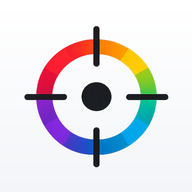
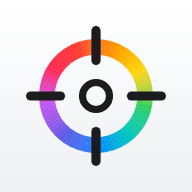
brand: new WhatColor mark with a hollow sample circle
The rebuilt app reads exactly what sits inside the reticle's center
circle, so the logo now shows that circle instead of the old solid dot.

- One geometry source (src/brand/mark.js) drives the React logo, the
  camera reticle, and every static icon (scripts/build-brand.mjs)
- Hero lockup is inline SVG + text now (the old PNG was 2.1 MB)
- Favicons, apple-touch and PWA icons, logo PNGs, share card v3
- Cache-busted icon URLs and service worker cache wc-v3 so installed
  apps and returning visitors pick up the new icons

diff --git a/src/brand/mark.js b/src/brand/mark.js
@@ -1,0 +1,72 @@
+// The WhatColor mark, defined once and used everywhere: the React logo, the
+// camera reticle, and the favicon / app-icon files (scripts/build-brand.mjs).
+//
+// A full-spectrum ring, four crosshair ticks, and a hollow center: the circle
+// in the middle is the spot the app reads, so the logo shows how it works.
+// No imports on purpose, so Node can load this file directly.
+
+export const INK = '#1C1C1E'
+
+// Brand spectrum, clockwise from about 11 o'clock (matches the original mark).
+const STOPS = ['#FF3B30', '#FF9500', '#FFD60A', '#30D158', '#00C7BE', '#0A84FF', '#5E5CE6', '#BF5AF2', '#FF2D55', '#FF3B30']
+const START_DEG = -110
+const SEGMENTS = 96
+
+const hex = (h) => [1, 3, 5].map((i) => parseInt(h.slice(i, i + 2), 16))
+const toLin = (c) => { c /= 255; return c <= 0.04045 ? c / 12.92 : ((c + 0.055) / 1.055) ** 2.4 }
+const toSrgb = (v) => Math.round(Math.min(1, Math.max(0, v <= 0.0031308 ? 12.92 * v : 1.055 * v ** (1 / 2.4) - 0.055)) * 255)
+const toHex = (rgb) => '#' + rgb.map((v) => v.toString(16).padStart(2, '0')).join('')
+
+// Blend in linear light so the ring doesn't get muddy between stops.
+function mix(a, b, t) {
+  const A = hex(a).map(toLin), B = hex(b).map(toLin)
+  return toHex(A.map((v, i) => toSrgb(v + (B[i] - v) * t)))
+}
+
+function colorAt(f) {
+  const x = f * (STOPS.length - 1)
+  const i = Math.min(STOPS.length - 2, Math.floor(x))
+  return mix(STOPS[i], STOPS[i + 1], x - i)
+}
+
+const r2 = (n) => Math.round(n * 1000) / 1000
+
+function arc(cx, cy, r0, r1, a0, a1) {
+  const p = (r, a) => [r2(cx + r * Math.cos(a)), r2(cy + r * Math.sin(a))]
+  const [x0, y0] = p(r1, a0), [x1, y1] = p(r1, a1)
+  const [x2, y2] = p(r0, a1), [x3, y3] = p(r0, a0)
+  return `M${x0} ${y0}A${r1} ${r1} 0 0 1 ${x1} ${y1}L${x2} ${y2}A${r0} ${r0} 0 0 0 ${x3} ${y3}Z`
+}
+
+/** Ring segments on a 100x100 canvas. */
+export function ringSegments({ outer = 40, inner = 29, cx = 50, cy = 50 } = {}) {
+  const out = []
+  for (let i = 0; i < SEGMENTS; i++) {
+    const a0 = ((START_DEG + (i * 360) / SEGMENTS) * Math.PI) / 180
+    const a1 = a0 + (2 * Math.PI) / SEGMENTS + 0.006 // hairline overlap, no seams
+    out.push({ d: arc(cx, cy, inner, outer, a0, a1), fill: colorAt((i + 0.5) / SEGMENTS) })
+  }
+  return out
+}
+
+// Ticks cross the ring like the original crosshair.
+export const TICKS = [
+  [50, 4, 50, 25],
+  [50, 75, 50, 96],
+  [4, 50, 25, 50],
+  [75, 50, 96, 50],
+]
+export const TICK_WIDTH = 6.5
+export const CENTER = { r: 9.5, stroke: 5 }
+
+/** Standalone SVG markup for the mark (used to generate the static files). */
+export function markSvg({ size = 100, background = null, radius = 22, scale = 1, ink = INK } = {}) {
+  const inset = (100 - 100 * scale) / 2
+  const g = `<g transform="translate(${r2(inset)} ${r2(inset)}) scale(${scale})">` +
+    ringSegments().map((s) => `<path d="${s.d}" fill="${s.fill}"/>`).join('') +
+    TICKS.map(([x1, y1, x2, y2]) => `<line x1="${x1}" y1="${y1}" x2="${x2}" y2="${y2}" stroke="${ink}" stroke-width="${TICK_WIDTH}" stroke-linecap="round"/>`).join('') +
+    `<circle cx="50" cy="50" r="${CENTER.r}" fill="none" stroke="${ink}" stroke-width="${CENTER.stroke}"/>` +
+    '</g>'
+  const bg = background ? `<rect width="100" height="100" rx="${radius}" fill="${background}"/>` : ''
+  return `<svg xmlns="http://www.w3.org/2000/svg" viewBox="0 0 100 100" width="${size}" height="${size}">${bg}${g}</svg>`
+}

diff --git a/index.html b/index.html
@@ -2,9 +2,9 @@
 <html lang="en">
   <head>
     <meta charset="UTF-8" />
-    <link rel="icon" type="image/svg+xml" href="/favicon.svg?v=2" />
-    <link rel="icon" type="image/png" sizes="32x32" href="/favicon-32.png?v=2" />
-    <link rel="icon" type="image/png" sizes="16x16" href="/favicon-16.png?v=2" />
+    <link rel="icon" type="image/svg+xml" href="/favicon.svg?v=3" />
+    <link rel="icon" type="image/png" sizes="32x32" href="/favicon-32.png?v=3" />
+    <link rel="icon" type="image/png" sizes="16x16" href="/favicon-16.png?v=3" />
     <meta name="viewport" content="width=device-width, initial-scale=1.0" />
     <meta name="description" content="Point your camera and WhatColor names any color the way a friend would: navy, olive, dusty rose. Free, private, and built by a colorblind developer." />
     <meta name="theme-color" content="#ffffff" />
@@ -12,7 +12,7 @@
 
     <!-- PWA: installable / add to home screen -->
     <link rel="manifest" href="/manifest.webmanifest" />
-    <link rel="apple-touch-icon" href="/apple-touch-icon.png?v=3" />
+    <link rel="apple-touch-icon" href="/apple-touch-icon.png?v=4" />
     <meta name="apple-mobile-web-app-capable" content="yes" />
     <meta name="apple-mobile-web-app-status-bar-style" content="default" />
     <meta name="apple-mobile-web-app-title" content="WhatColor" />
@@ -27,7 +27,7 @@
     <meta property="og:url" content="https://what-color.com/" />
     <meta property="og:title" content="WhatColor: identify any color in words you actually use" />
     <meta property="og:description" content="Point your camera and WhatColor names any color the way a friend would: navy, olive, dusty rose. Free, private, and built by a colorblind developer." />
-    <meta property="og:image" content="https://what-color.com/og-card-v2.png" />
+    <meta property="og:image" content="https://what-color.com/og-card-v3.png" />
     <meta property="og:image:width" content="1200" />
     <meta property="og:image:height" content="630" />
     <meta property="og:image:alt" content="WhatColor names everyday colors: Maroon, Navy, Army Green, Dusty Rose, Mustard, Teal." />
@@ -36,7 +36,7 @@
     <meta name="twitter:card" content="summary_large_image" />
     <meta name="twitter:title" content="WhatColor: identify any color in words you actually use" />
     <meta name="twitter:description" content="Point your camera and WhatColor names any color the way a friend would: navy, olive, dusty rose. Free, private, and built by a colorblind developer." />
-    <meta name="twitter:image" content="https://what-color.com/og-card-v2.jpg" />
+    <meta name="twitter:image" content="https://what-color.com/og-card-v3.jpg" />
     <meta name="twitter:image:alt" content="WhatColor names everyday colors: Maroon, Navy, Army Green, Dusty Rose, Mustard, Teal." />
   </head>
   <body>

diff --git a/src/components/landing/Features.jsx b/src/components/landing/Features.jsx
@@ -2,6 +2,7 @@ import { useInView } from '../../hooks/useInView'
 import { UploadIcon, CompareIcon, EyeIcon, LockIcon, HistoryIcon, DownloadIcon, SunIcon, SpeakerIcon } from '../ui/Icons'
 import { simulateRgb, CVD_SHORT } from '../../engine/cvd'
 import { toHex } from '../../engine/colorMath'
+import { WhatColorMark } from '../brand/Logo'
 
 // One maroon, as four kinds of eyes see it (computed, not hand-picked).
 const MAROON = { r: 110, g: 26, b: 42 }
@@ -50,16 +51,7 @@ export default function Features() {
         <Tile inView={inView} delay={0} className="col-span-2 md:row-span-2 border border-white/10 overflow-hidden relative flex flex-col justify-end p-6 min-h-[300px] md:min-h-0">
           <div className="absolute inset-0" style={{ background: 'radial-gradient(120% 80% at 50% 18%, #f0a35f 0%, #d8552f 38%, #4a1f12 82%, #1a0c07 100%)' }} />
           <div className="absolute inset-x-0 top-0 h-1/2 flex items-center justify-center">
-            <svg viewBox="0 0 100 100" className="w-20 h-20 drop-shadow-[0_2px_10px_rgba(0,0,0,0.5)]" aria-hidden="true">
-              <circle cx="50" cy="50" r="41" fill="none" stroke="url(#ft-ring)" strokeWidth="10" />
-              <defs>
-                <linearGradient id="ft-ring" x1="0" y1="0" x2="1" y2="1">
-                  <stop offset="0" stopColor="#FF3B30" /><stop offset="0.35" stopColor="#FFD60A" />
-                  <stop offset="0.65" stopColor="#30D158" /><stop offset="1" stopColor="#BF5AF2" />
-                </linearGradient>
-              </defs>
-              <circle cx="50" cy="50" r="12" fill="none" stroke="#fff" strokeWidth="2" />
-            </svg>
+            <WhatColorMark size={84} ink="#fff" className="drop-shadow-[0_2px_10px_rgba(0,0,0,0.5)]" />
           </div>
           <div className="relative">
             <span className="inline-flex items-center gap-1.5 px-2.5 py-1 rounded-full bg-white/15 backdrop-blur text-white text-[10px] font-semibold mb-3">
@@ -132,7 +124,7 @@ export default function Features() {
 
         {/* Install */}
         <Tile inView={inView} delay={480} className="col-span-2 glass-light p-5 flex items-center gap-4 group">
-          <img src="/icon-192.png" alt="" className="w-12 h-12 rounded-2xl border border-black/5 shrink-0 transition-transform duration-300 group-hover:scale-105" draggable={false} />
+          <img src="/icon-192.png?v=2" alt="" className="w-12 h-12 rounded-2xl border border-black/5 shrink-0 transition-transform duration-300 group-hover:scale-105" draggable={false} />
           <div>
             <h3 className="text-sm font-bold text-gray-900">Install it like an app</h3>
             <p className="text-xs text-gray-500 font-light mt-0.5 leading-relaxed">Add WhatColor to your home screen. It opens instantly, even with no signal.</p>

diff --git a/src/components/brand/Logo.jsx b/src/components/brand/Logo.jsx
@@ -1,0 +1,61 @@
+import { useMemo } from 'react'
+import { ringSegments, TICKS, TICK_WIDTH, CENTER, INK } from '../../brand/mark'
+
+/** The WhatColor mark as inline SVG: crisp at any size, no image request. */
+export function WhatColorMark({ size = 48, ink = INK, className = '', title }) {
+  const ring = useMemo(() => ringSegments(), [])
+  // Numbers are pixels; strings (e.g. "3em") go through CSS so it can scale.
+  const dims = typeof size === 'number' ? { width: size, height: size } : { style: { width: size, height: size } }
+  return (
+    <svg
+      viewBox="0 0 100 100"
+      {...dims}
+      className={className}
+      role={title ? 'img' : undefined}
+      aria-label={title}
+      aria-hidden={title ? undefined : true}
+    >
+      {ring.map((s, i) => <path key={i} d={s.d} fill={s.fill} />)}
+      {TICKS.map(([x1, y1, x2, y2]) => (
+        <line key={`${x1}-${y1}`} x1={x1} y1={y1} x2={x2} y2={y2} stroke={ink} strokeWidth={TICK_WIDTH} strokeLinecap="round" />
+      ))}
+      <circle cx="50" cy="50" r={CENTER.r} fill="none" stroke={ink} strokeWidth={CENTER.stroke} />
+    </svg>
+  )
+}
+
+/** "WhatColor" with the spectrum across "Color". */
+export function WhatColorWordmark({ className = '', dark = false }) {
+  return (
+    <span className={`font-semibold tracking-tight ${dark ? 'text-white' : 'text-[#1c1c1e]'} ${className}`}>
+      What
+      <span
+        className="bg-clip-text text-transparent"
+        style={{ backgroundImage: 'linear-gradient(90deg, #FF3B30, #FF9500 22%, #FFD60A 38%, #30D158 55%, #0A84FF 75%, #BF5AF2)' }}
+      >
+        Color
+      </span>
+    </span>
+  )
+}
+
+/**
+ * Mark + wordmark + tagline, stacked. Everything is sized in em, so one
+ * font-size on the wrapper scales the whole lockup.
+ */
+export function WhatColorLockup({ className = '', style }) {
+  return (
+    <div
+      className={`flex flex-col items-center select-none leading-none ${className}`}
+      style={style}
+      role="img"
+      aria-label="WhatColor. See more. Know more."
+    >
+      <WhatColorMark size="2.9em" />
+      <WhatColorWordmark className="mt-[0.28em]" />
+      <span className="mt-[0.42em] text-[0.2em] font-medium tracking-[0.42em] text-[#6b6b70] pl-[0.42em] whitespace-nowrap">
+        SEE MORE. KNOW MORE.
+      </span>
+    </div>
+  )
+}

diff --git a/src/components/app/Reticle.jsx b/src/components/app/Reticle.jsx
@@ -1,28 +1,11 @@
 import { forwardRef, useMemo } from 'react'
+import { ringSegments } from '../../brand/mark'
 
-// The WhatColor reticle: the brand's rainbow ring, with a hollow center whose
-// circle is exactly the area being sampled. The old PNG had a solid dot right
-// over the spot it was measuring.
-const SEGMENTS = 36
-
-function arc(cx, cy, r0, r1, a0, a1) {
-  const p = (r, a) => [cx + r * Math.cos(a), cy + r * Math.sin(a)]
-  const [x0, y0] = p(r1, a0), [x1, y1] = p(r1, a1)
-  const [x2, y2] = p(r0, a1), [x3, y3] = p(r0, a0)
-  return `M${x0} ${y0}A${r1} ${r1} 0 0 1 ${x1} ${y1}L${x2} ${y2}A${r0} ${r0} 0 0 0 ${x3} ${y3}Z`
-}
+// The WhatColor reticle: the logo's spectrum ring with a hollow center whose
+// circle is exactly the area being sampled (the logo's center ring, live).
 
 const Reticle = forwardRef(function Reticle({ size = 92, spot = 36, color = null, pulseKey = 0, breathe = false, ringOpacity = 1 }, ref) {
-  const ring = useMemo(() => {
-    const out = []
-    for (let i = 0; i < SEGMENTS; i++) {
-      // Start at the top and go clockwise, red → orange → ... → magenta.
-      const a0 = -Math.PI / 2 + (i / SEGMENTS) * Math.PI * 2
-      const a1 = a0 + (Math.PI * 2) / SEGMENTS + 0.012
-      out.push({ d: arc(50, 50, 36, 46, a0, a1), fill: `hsl(${(i * 360) / SEGMENTS}, 92%, 56%)` })
-    }
-    return out
-  }, [])
+  const ring = useMemo(() => ringSegments({ outer: 46, inner: 36 }), [])
 
   // Keep the sample circle comfortably inside the ring.
   const outer = Math.max(size, spot * 1.9)

diff --git a/src/components/app/ImageUploadView.jsx b/src/components/app/ImageUploadView.jsx
@@ -5,6 +5,7 @@ import { identify } from '../../engine/identify'
 import { createSampler, SPOT_SIZES } from '../../engine/sampler'
 import ColorInfoPanel from './ColorInfoPanel'
 import Reticle from './Reticle'
+import { WhatColorMark, WhatColorWordmark } from '../brand/Logo'
 import { ImageIcon, RefreshIcon, CameraIcon, ArrowLeftIcon, ChevronDownIcon } from '../ui/Icons'
 
 // Photos are sampled a bit tighter than the live camera: no sensor noise to
@@ -145,7 +146,10 @@ export default function ImageUploadView({ onSave, onBack, onColorChange }) {
       )}
 
       <div className="absolute top-0 left-0 right-0 flex items-center justify-between px-4 py-3 bg-gradient-to-b from-black/60 via-black/20 to-transparent">
-        <span className="font-bold text-white text-sm tracking-tight"><span className="font-normal">What</span>Color</span>
+        <span className="flex items-center gap-2 text-[15px]">
+          <WhatColorMark size={22} ink="#fff" />
+          <WhatColorWordmark dark />
+        </span>
         <div className="flex items-center gap-2">
           <button
             onClick={() => { setImageSrc(null); setRaw(null); setAim(null) }}

diff --git a/src/components/landing/LandingPage.jsx b/src/components/landing/LandingPage.jsx
@@ -9,6 +9,7 @@ import FinalCTA from './FinalCTA'
 import LandingNav from './LandingNav'
 import InstallPrompt from './InstallPrompt'
 import { SOCIALS } from '../../socials'
+import { WhatColorMark } from '../brand/Logo'
 
 // Soft, vibrant color washes that slowly drift behind the page. Blur and opacity
 // are static (only the transform animates), so they always render as a soft
@@ -80,7 +81,7 @@ export default function LandingPage() {
         <footer className="border-t border-gray-100 px-6 py-10 bg-white/80 backdrop-blur-sm">
           <div className="max-w-5xl mx-auto flex flex-col md:flex-row items-center justify-between gap-5">
             <div className="flex items-center gap-3">
-              <img src="/logo-symbol-transparent.png" alt="" className="h-7 w-7 object-contain" />
+              <WhatColorMark size={28} />
               <span className="text-sm font-semibold text-gray-900">WhatColor</span>
               <span className="text-sm text-gray-400 font-light">See more. Know more.</span>
             </div>

diff --git a/src/components/landing/Hero.jsx b/src/components/landing/Hero.jsx
@@ -2,6 +2,7 @@ import { useRef, useState, useEffect, useCallback } from 'react'
 import { Link } from 'react-router-dom'
 import { CameraIcon, UploadIcon } from '../ui/Icons'
 import ColorCyclePill from './ColorCyclePill'
+import { WhatColorLockup } from '../brand/Logo'
 
 const LINE1_WORDS = ['Identify', 'any']
 const COLOR_WORD  = 'color'
@@ -93,13 +94,7 @@ export default function Hero() {
             opacity: 0.35,
           }}
         />
-        <img
-          src="/logo-lockup-transparent.png"
-          srcSet="/logo-lockup-transparent.png 1x, /logo-lockup-transparent@2x.png 2x"
-          alt="WhatColor. See more. Know more."
-          className="relative w-[46rem] md:w-[42rem] h-auto select-none"
-          draggable={false}
-        />
+        <WhatColorLockup className="relative" style={{ fontSize: 'clamp(52px, 6.4vw, 92px)' }} />
       </div>
 
       {/* Headline: scroll-in wave via h1 key, per-letter hover/swipe via WaveLetter */}

diff --git a/src/components/landing/InstallPrompt.jsx b/src/components/landing/InstallPrompt.jsx
@@ -64,7 +64,7 @@ export default function InstallPrompt() {
     <div className="fixed inset-x-0 bottom-0 z-50 flex justify-center px-3 pb-3 pointer-events-none">
       <div className="pointer-events-auto w-full max-w-md flex items-center gap-3 px-4 py-3 rounded-2xl bg-white/90 backdrop-blur-xl border border-black/[0.07] raised-light animate-fade-up">
         <div className="w-11 h-11 rounded-xl shrink-0 bg-gray-50 border border-black/5 flex items-center justify-center overflow-hidden">
-          <img src="/icon-192.png" alt="" className="w-full h-full object-cover" />
+          <img src="/icon-192.png?v=2" alt="" className="w-full h-full object-cover" />
         </div>
 
         <div className="flex-1 min-w-0">

diff --git a/src/components/landing/FinalCTA.jsx b/src/components/landing/FinalCTA.jsx
@@ -18,7 +18,7 @@ export default function FinalCTA() {
 
         <div className="relative">
           <div className="flex justify-center mb-6">
-            <img src="/icon-192.png" alt="" className="w-14 h-14 rounded-2xl border border-white/10" draggable={false} />
+            <img src="/icon-192.png?v=2" alt="" className="w-14 h-14 rounded-2xl border border-white/10" draggable={false} />
           </div>
           <h2 className="text-white text-3xl md:text-5xl font-bold tracking-tight leading-[1.1]">
             See color clearly.

diff --git a/public/sw.js b/public/sw.js
@@ -1,11 +1,11 @@
 // WhatColor service worker: app-shell offline support.
 // Bump CACHE_VERSION to invalidate old caches on deploy.
-const CACHE_VERSION = 'wc-v2'
+const CACHE_VERSION = 'wc-v3'
 const PRECACHE = [
   '/',
   '/manifest.webmanifest',
-  '/icon-192.png',
-  '/icon-512.png',
+  '/icon-192.png?v=2',
+  '/icon-512.png?v=2',
   '/favicon.svg',
 ]
 
